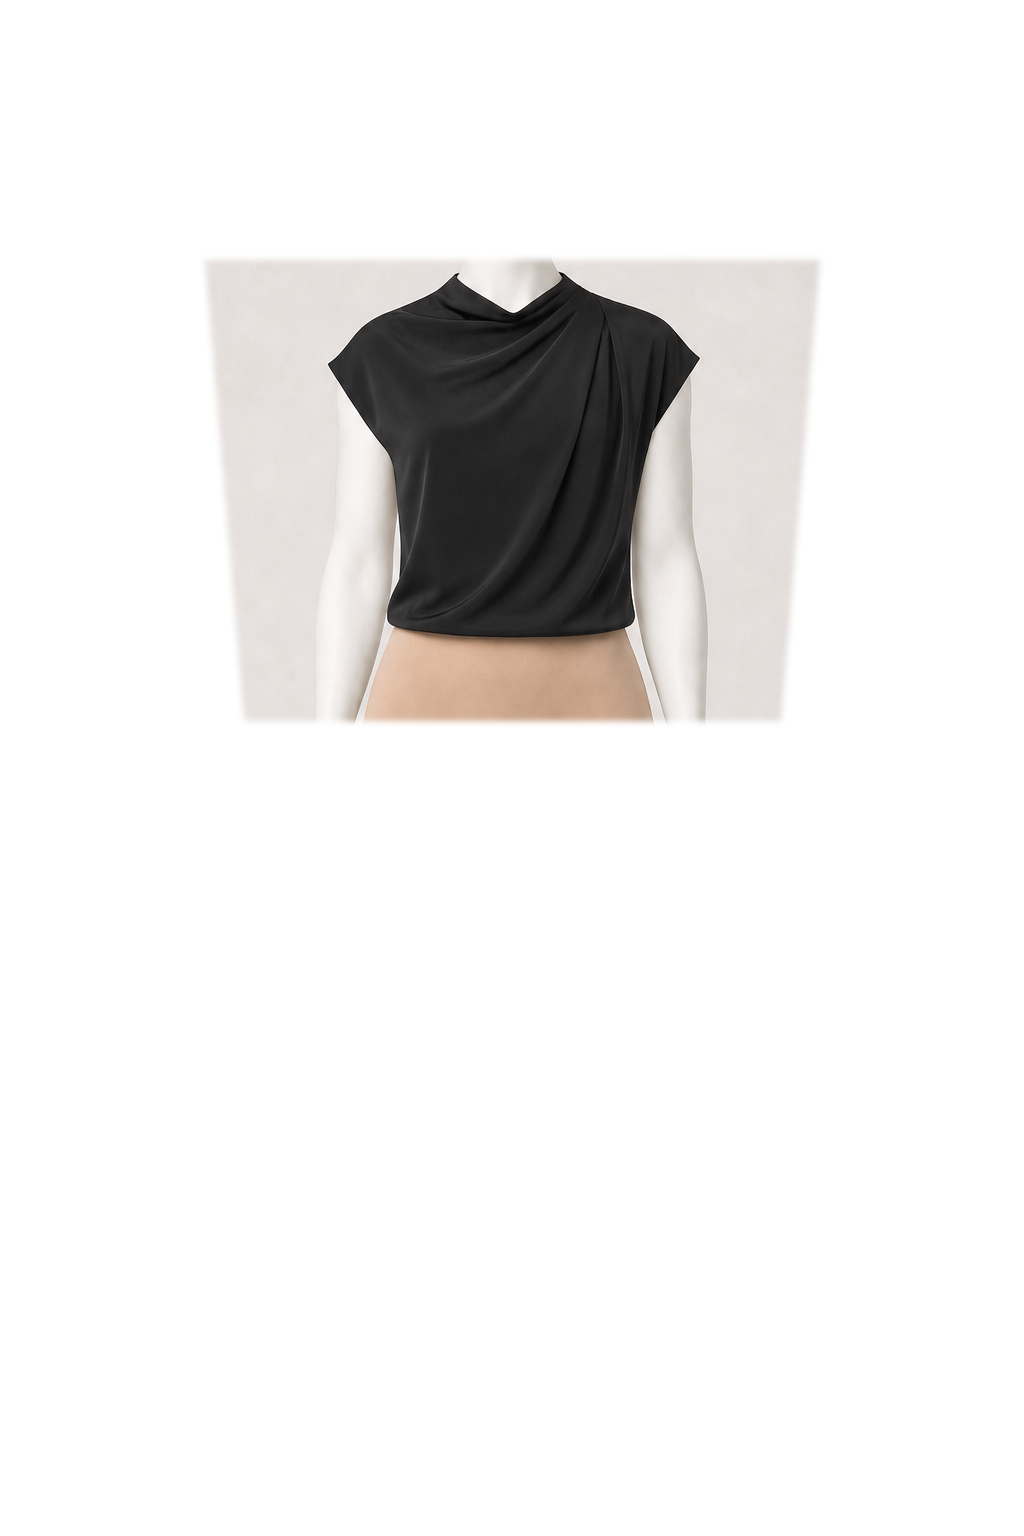
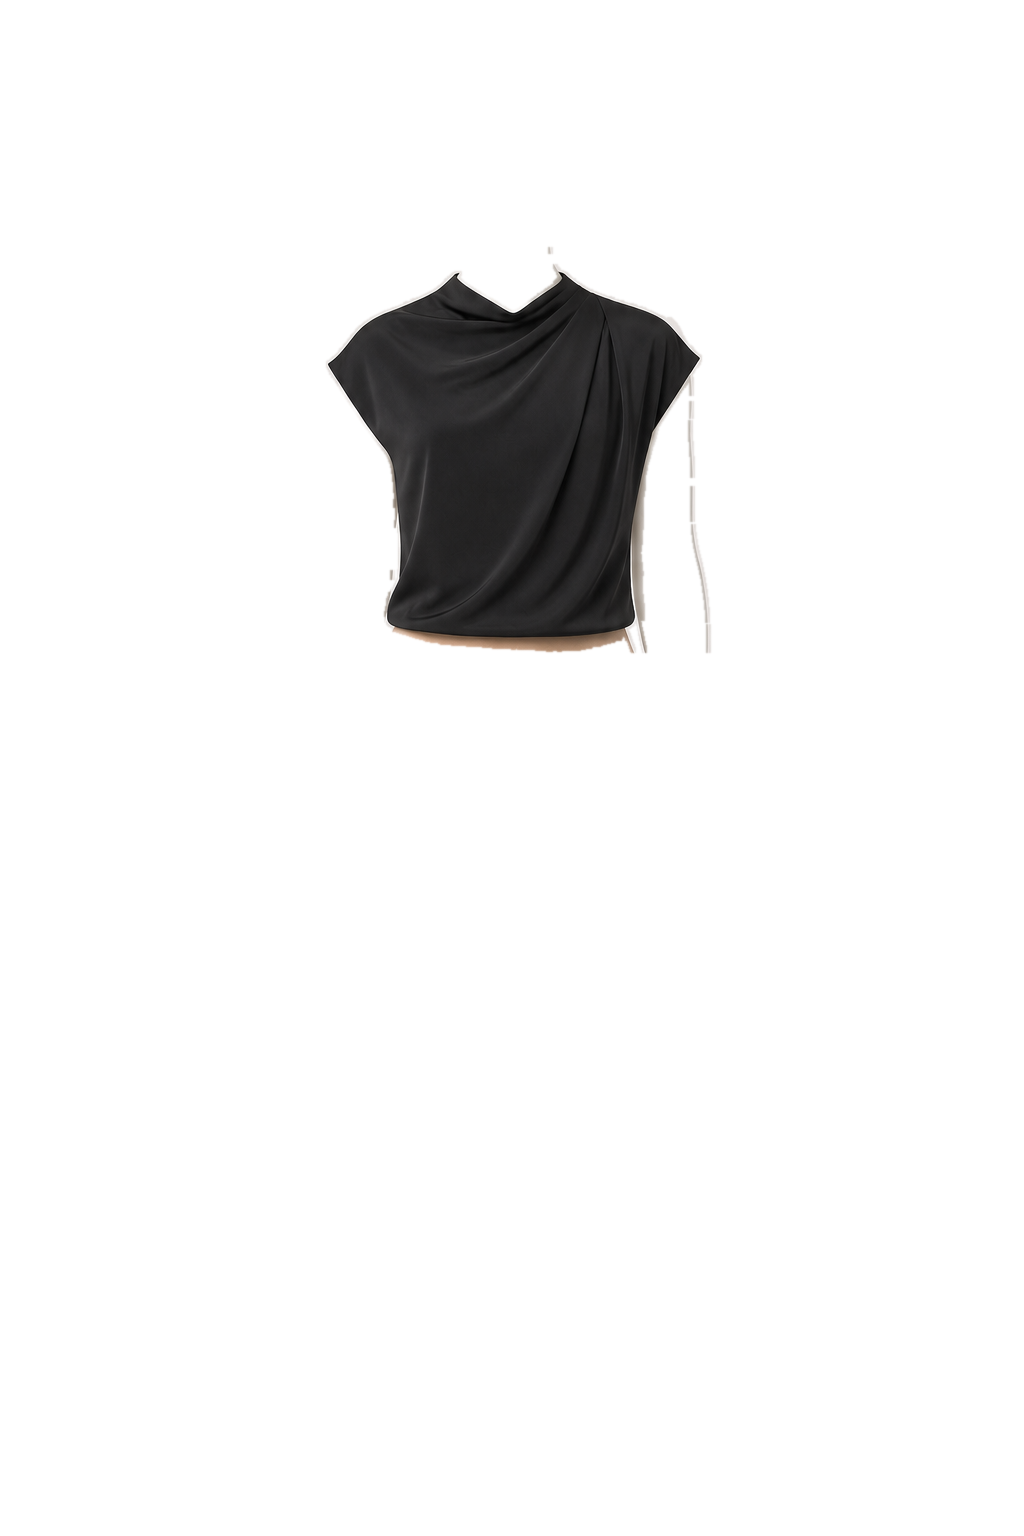
Fix mannequin garment overlap masks

Changed region(s): [[0.1875, 0.1562, 0.8125, 0.4688]]

diff --git a/web/index.html b/web/index.html
@@ -263,6 +263,10 @@ const MANNEQUIN_CORRECTED_COMBOS = {
   "item_1784049803062_36cyd2|item_1784051309093_eo70g1|item_1784063648163_w89uyx":
     "/mannequin/corrections/black-cowl-light-birch-taupe-pumps.png",
 };
+const MANNEQUIN_PAIR_CORRECTIONS = {
+  "item_1784051309093_eo70g1|item_1784063648163_w89uyx":
+    "/mannequin/corrections/black-cowl-light-birch-pair.png",
+};
 
 function mannequinComboKey(outfit) {
   return Object.values(outfit || {}).filter(Boolean).sort().join("|");
@@ -270,15 +274,22 @@ function mannequinComboKey(outfit) {
 
 function tryOnHTML(outfit, byId) {
   const corrected = MANNEQUIN_CORRECTED_COMBOS[mannequinComboKey(outfit)];
+  const pairKey = [outfit.top, outfit.bottom].filter(Boolean).sort().join("|");
+  const pairCorrection = MANNEQUIN_PAIR_CORRECTIONS[pairKey];
   const orderedIds = MANNEQUIN_LAYER_ORDER.map(cat => outfit[cat]).filter(Boolean);
   const available = orderedIds.filter(id => MANNEQUIN_ITEM_LAYERS[id]);
   const missing = orderedIds.filter(id => !MANNEQUIN_ITEM_LAYERS[id]).map(id => byId[id]?.name).filter(Boolean);
   const images = corrected
     ? `<img src="${corrected}" alt="Outfit on your mannequin">`
     : `<img src="${MANNEQUIN_BASE}" alt="Your mannequin">
-       ${available.map(id => `<img src="${MANNEQUIN_ITEM_LAYERS[id]}" alt="">`).join("")}`;
+       ${pairCorrection ? `<img src="${pairCorrection}" alt="">` : ""}
+       ${available
+         .filter(id => !pairCorrection || (id !== outfit.top && id !== outfit.bottom))
+         .map(id => `<img src="${MANNEQUIN_ITEM_LAYERS[id]}" alt="">`).join("")}`;
   const note = corrected
     ? "This combination uses a saved overlap-corrected version."
+    : pairCorrection
+      ? `${missing.length ? `Still preparing: ${missing.map(escapeHtml).join(", ")}.` : "Built instantly from reusable item layers."} The waist overlap uses a saved fit correction.`
     : missing.length
       ? `${available.length ? "Showing the prepared pieces." : "The mannequin is ready."} Still preparing: ${missing.map(escapeHtml).join(", ")}.`
       : "Built instantly from reusable item layers—no new image-generation fee.";
